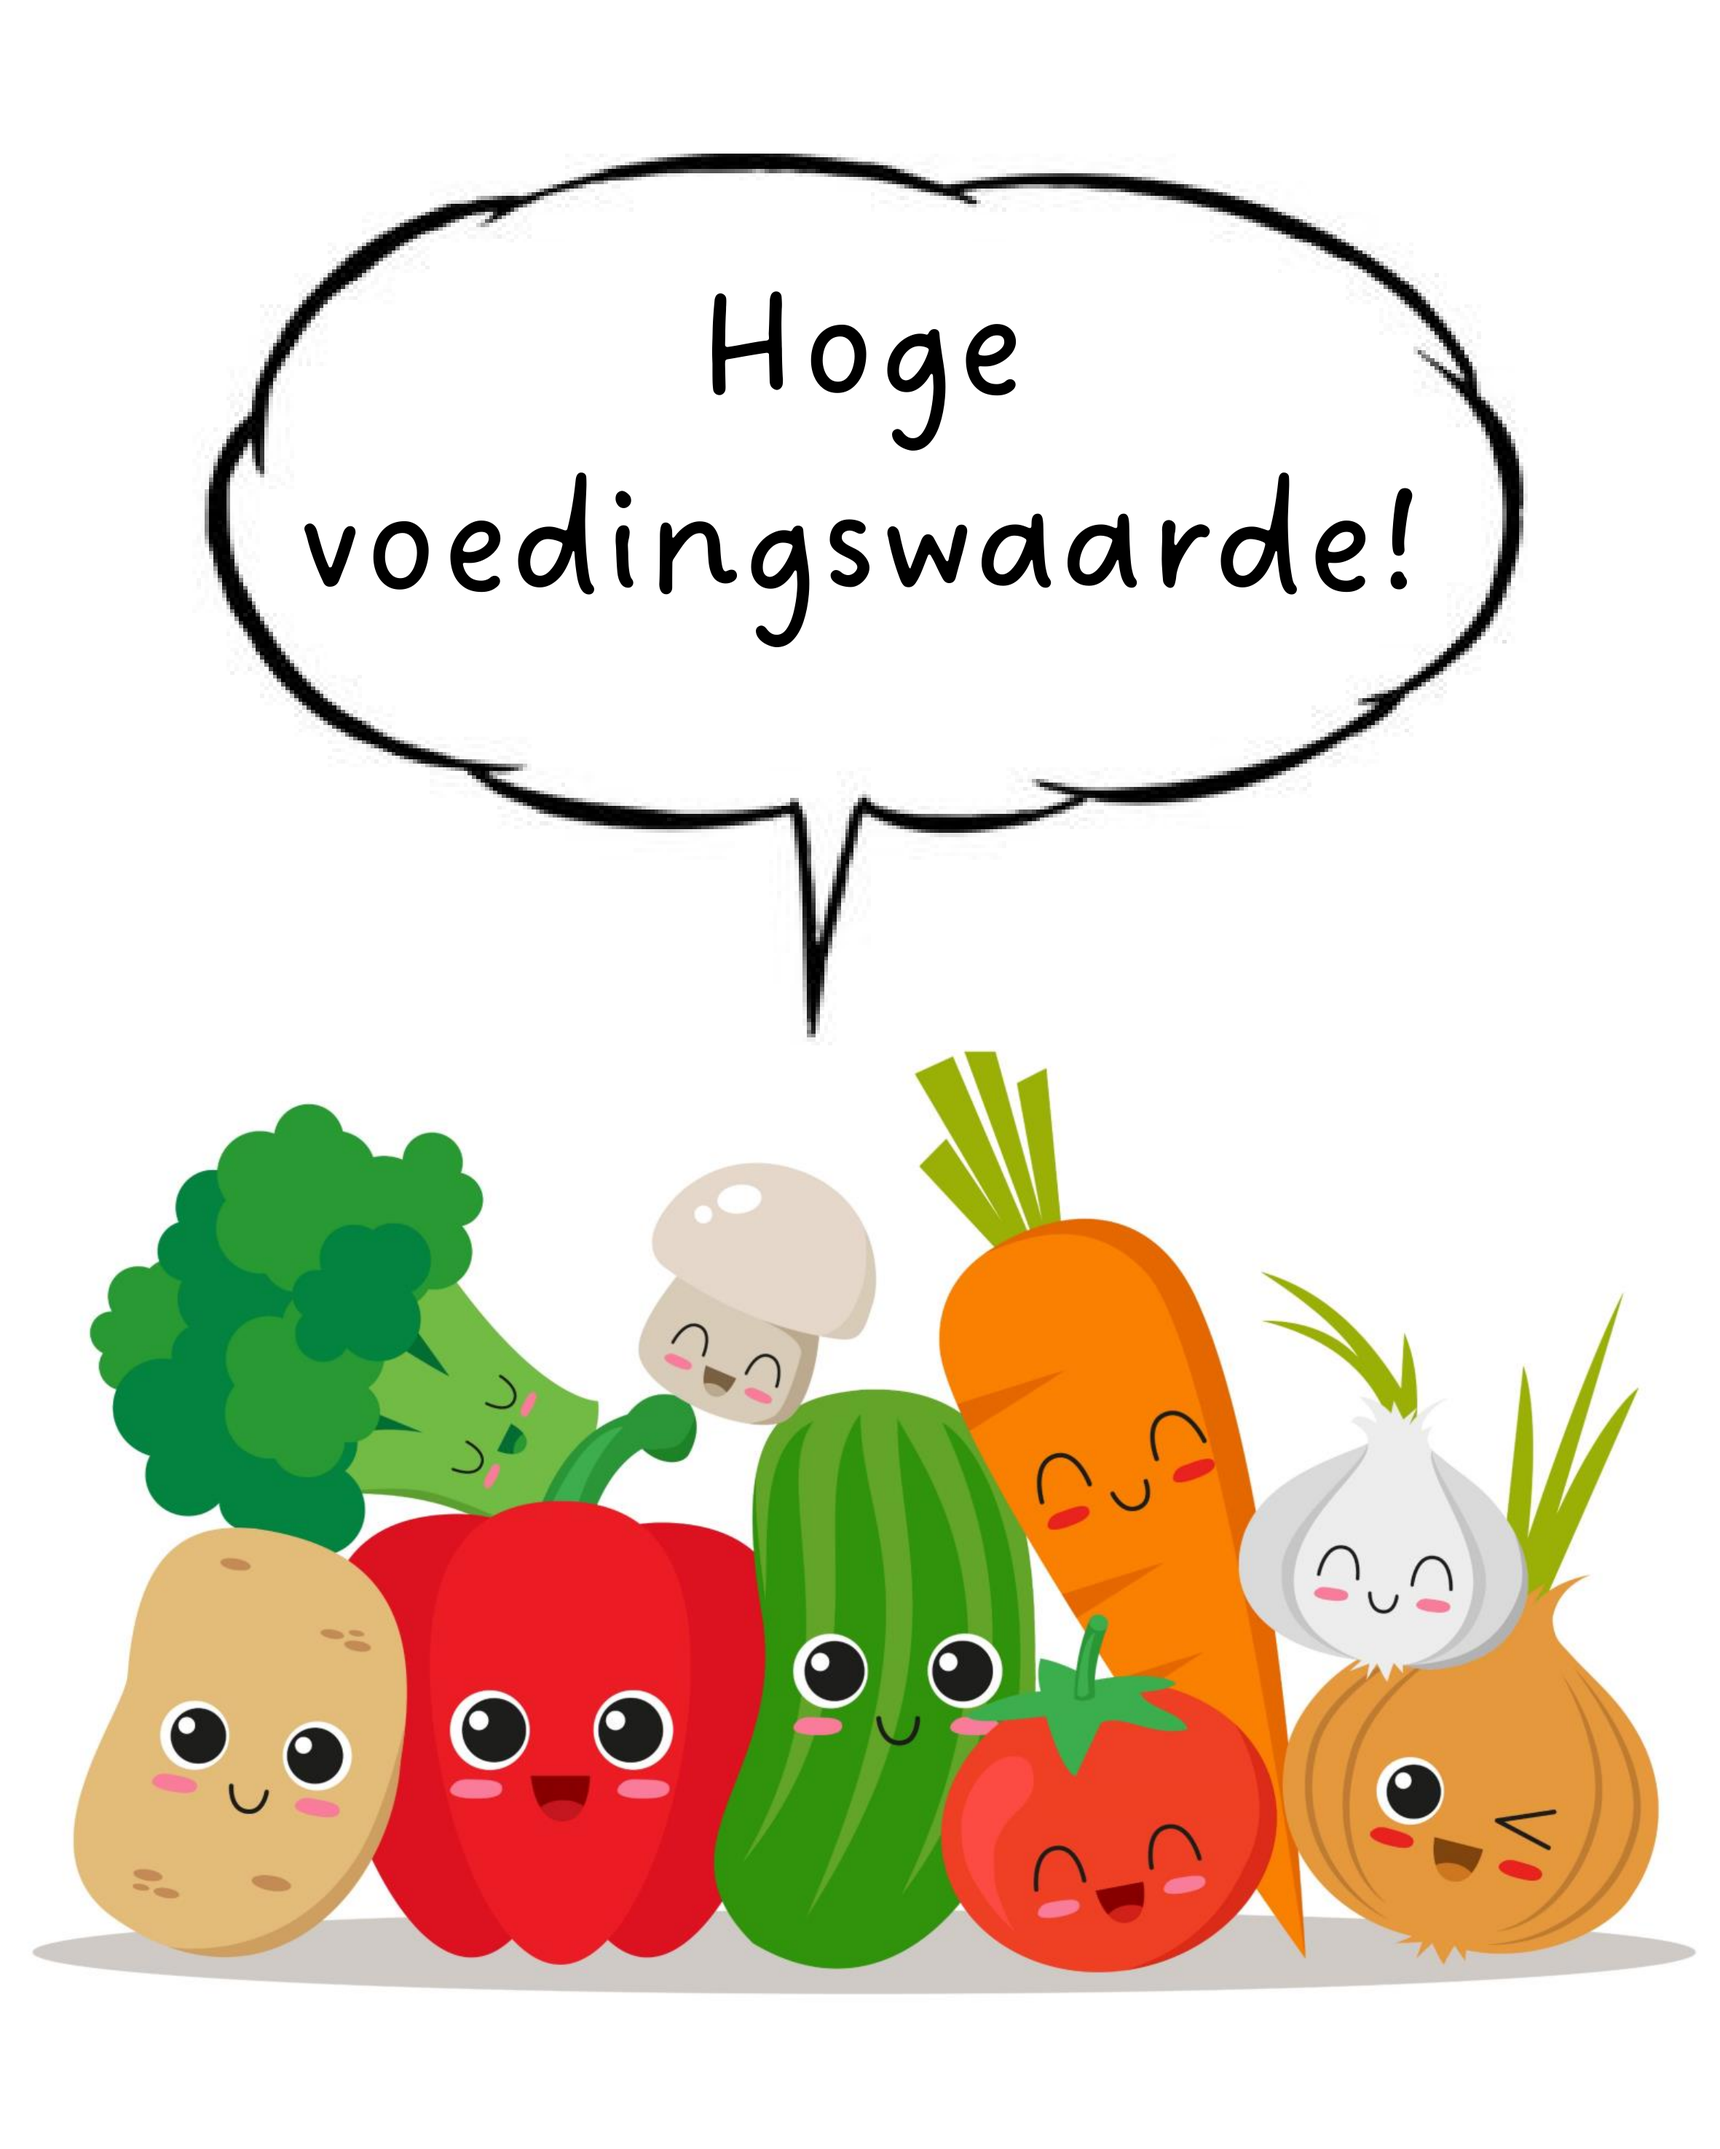
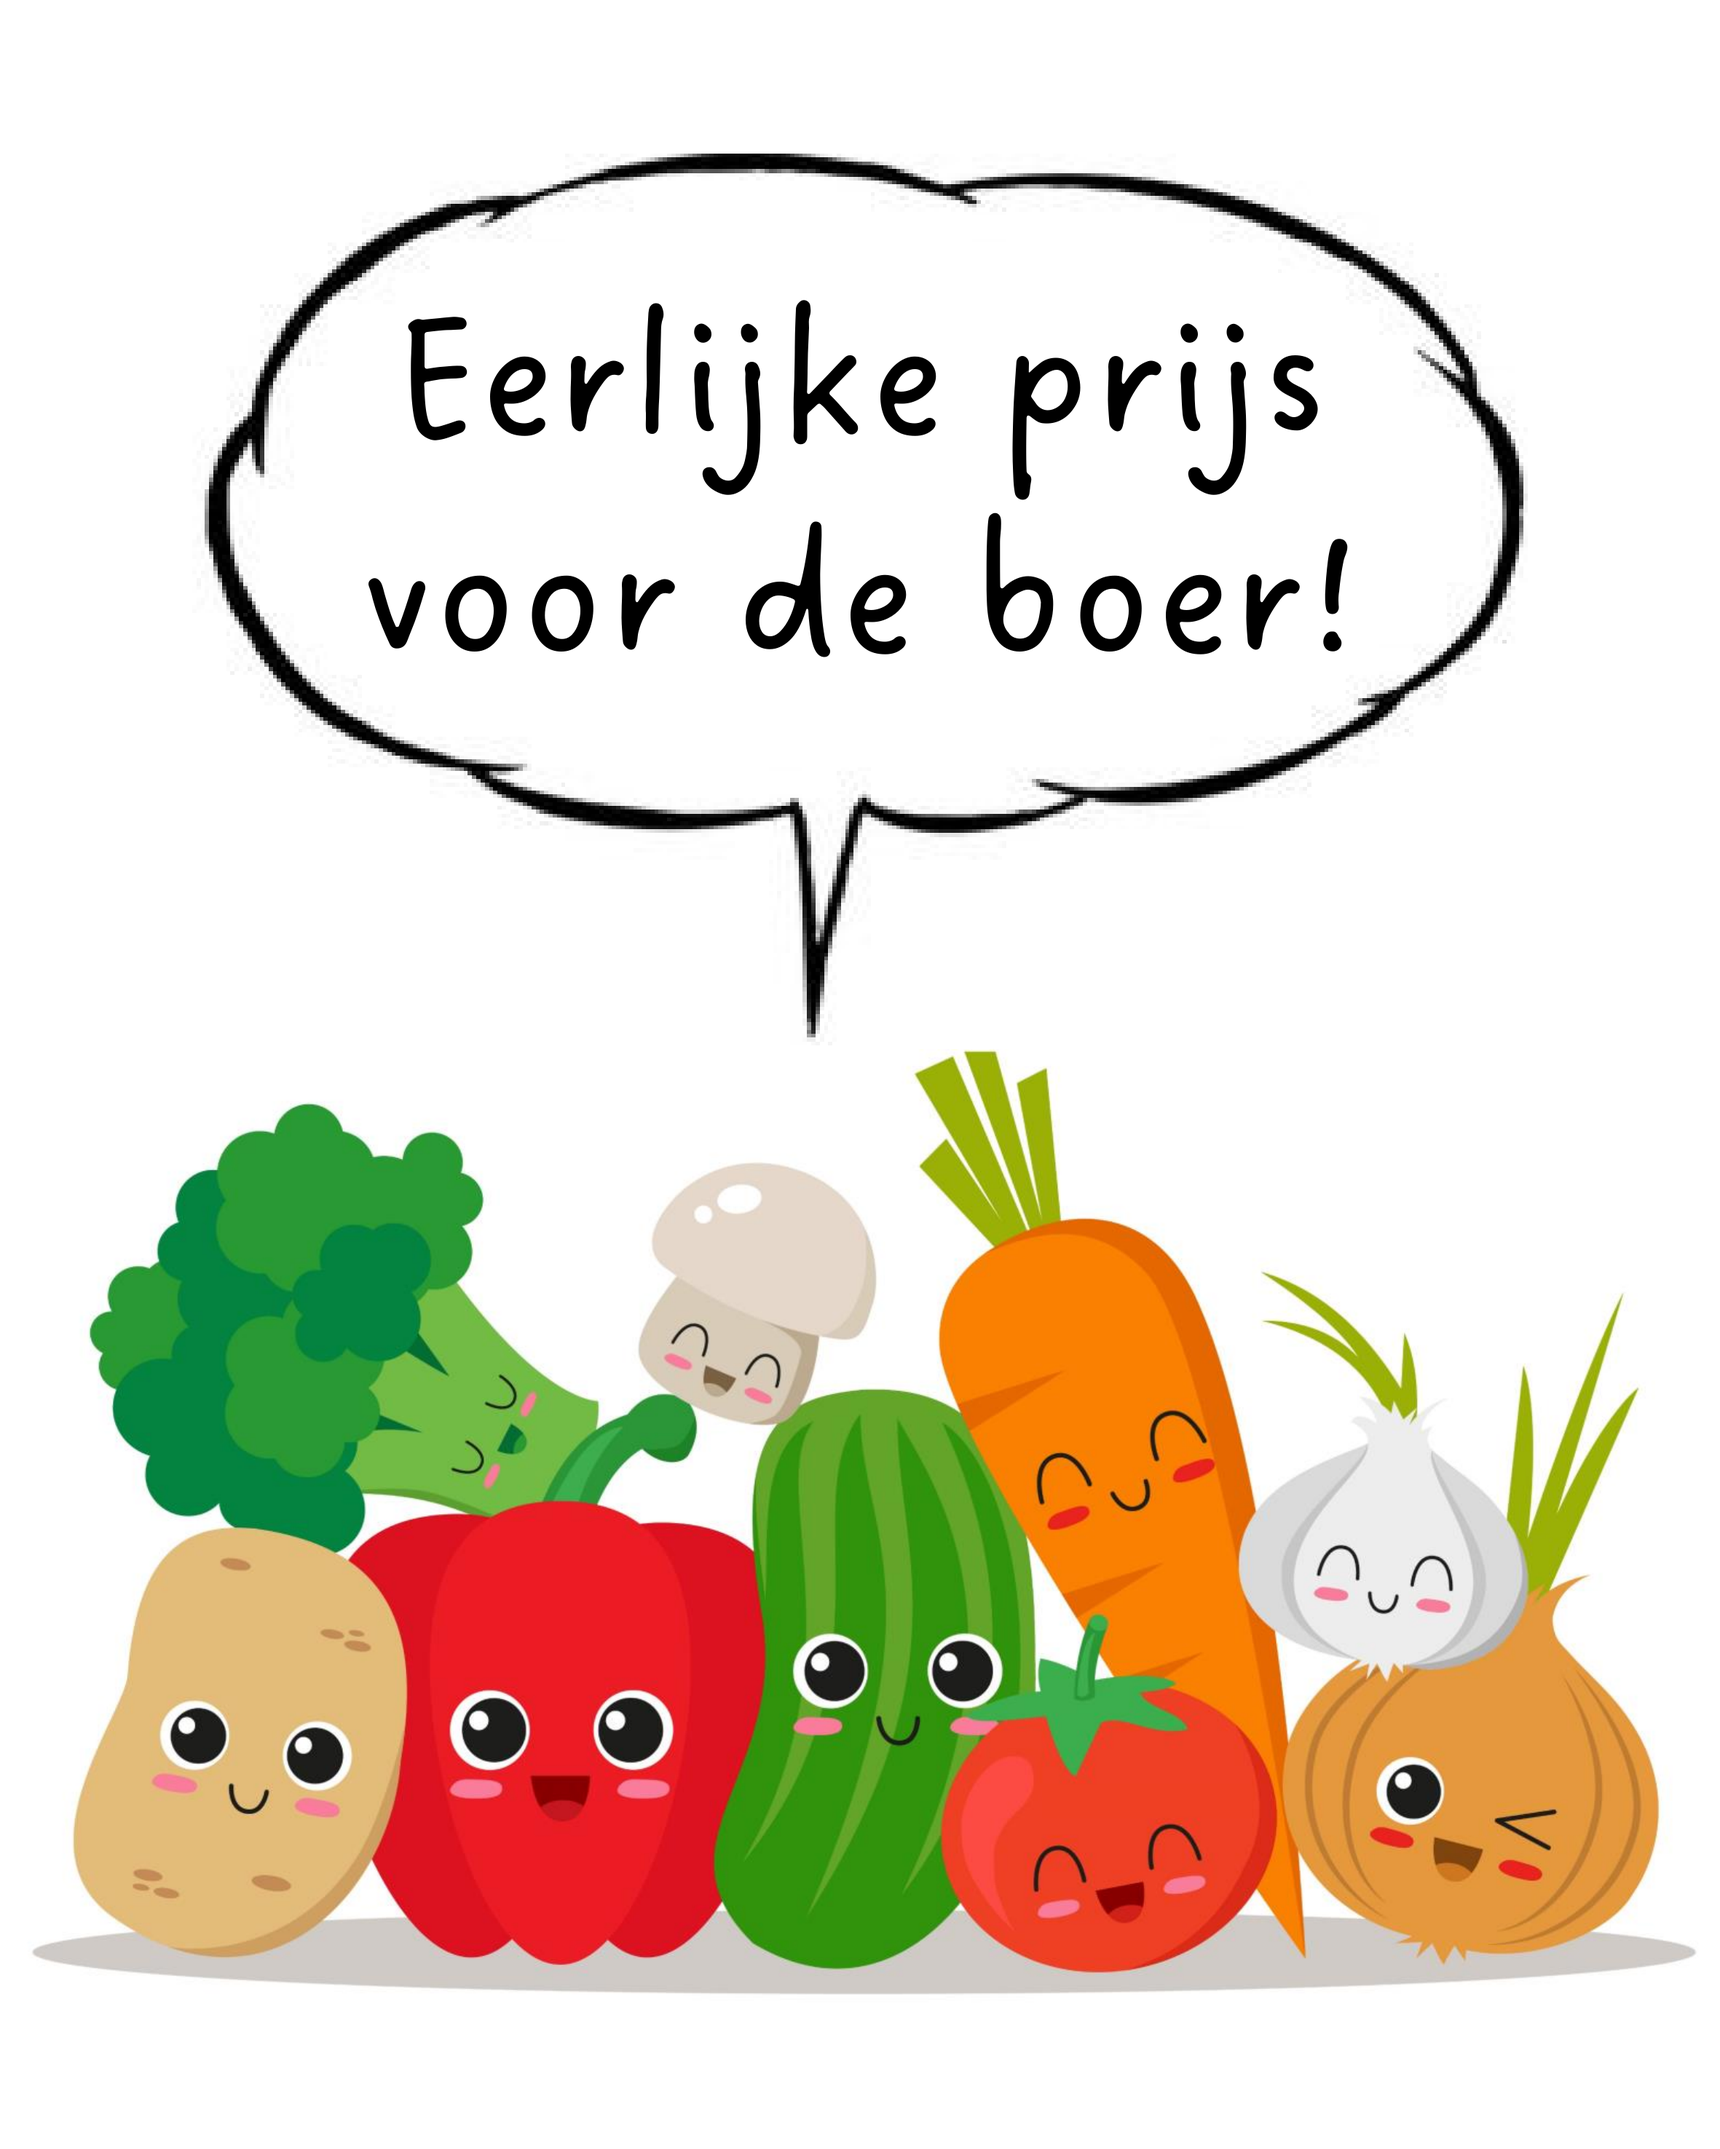
Update to altruistic

Changed region(s): [[0.1854, 0.1247, 0.8345, 0.3117]]

diff --git a/src/pages/shop/hero.jsx b/src/pages/shop/hero.jsx
@@ -1,13 +1,13 @@
 import React from 'react'
-import egoistisch from '../../assets/Egoistisch.jpg'
+import altruistisch from '../../assets/Altruistisch.jpg'
 
 export const Hero = () => {
   return (
     <div className='relative h-screen mb-20 -mt-20 p-4'>
-        <img className='absolute inset-0 object-cover h-full max-h-screen w-screen -z-10 brightness-50' src={egoistisch} />
+        <img className='absolute inset-0 object-cover h-full max-h-screen w-screen -z-10 brightness-50' src={altruistisch} />
         <div className='max-w-7xl mx-auto flex flex-col justify-center items-center w-full h-full'>
           <h1 className='text-3xl md:text-4xl lg:text-6xl text-white font-extrabold opacity-100 mb-5 text-center'>Waarom kiezen voor de Buurtwinkel?</h1>
-          <h2 className='text-white text-xl lg:text-2xl font-bold mb-5 text-center'>Bewust en gezond eten is voor ons erg belangrijk. Onze producten worden door kleinschalige, lokale ondernemers geproduceerd. U weet dus precies waar uw voedsel vandaan komt. Daarnaast zitten de producten bomvol vitaminen en andere gezonde voedingswaarden!
+          <h2 className='text-white text-xl lg:text-2xl font-bold mb-5 text-center'>De boer is voor ons erg belangrijk. Onze producten hebben een eerlijke prijs. Doordat de boeren niet aan grote supermarktketens hoeven te verkopen en er minder tussenschakels zijn, gaat er meer winst rechtstreeks naar henzelf. Door bij ons te kopen steun je de lokale economie!
           </h2>
           <button className='rounded-full bg-primary text-white font-bold px-4 py-2 w-fit text-xl hover:bg-primaryhover' onClick={e => {
             let shop = document.getElementById("shop-scroll-anchor");

diff --git a/src/pages/shop/shop.jsx b/src/pages/shop/shop.jsx
@@ -18,7 +18,7 @@ export const Shop = () => {
           <div className='sm:sticky sm:top-20 p-4 w-full'>
             <img src={Cartoon} className='object-cover' />
             <div className='bg-primary bg-opacity-10'>
-              <p className='text-lg px-4 pt-4 mb-2 italic '>“Door bij Buurtwinkel te kopen weet ik precies waar mijn groenten en vlees vandaan komen. Veilige en gezonde producten van betrouwbare producenten.”</p>
+              <p className='text-lg px-4 pt-4 mb-2 italic '>“Door bij Buurtwinkel te kopen steun ik boer Piet en kan hij investeren in een nieuwe stal voor zijn koeien. Dat doet me goed!"</p>
               <p className='pb-4 px-4 font-bold text-lg italic'>Petra van S.</p>
               <div className='flex px-4 pb-4 justify-between'>
                 <svg xmlns="http://www.w3.org/2000/svg" fill="none" viewBox="0 0 24 24" stroke-width="1.5" stroke="currentColor" class="w-12 h-12 sm:w-10 sm:h-10 text-gray-700 fill-yellow-300">
